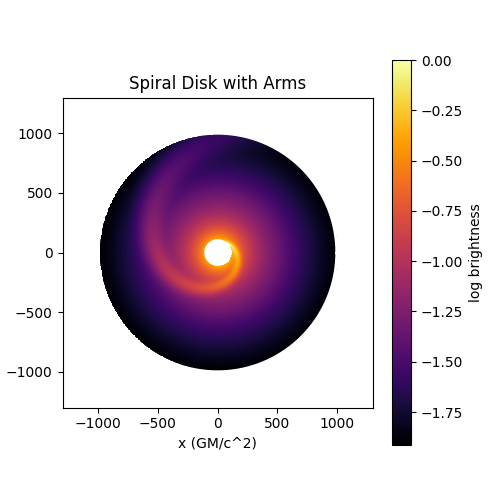
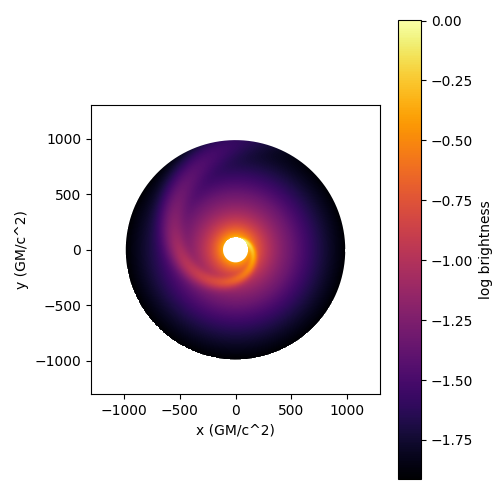
Updating 2D figure layout

diff --git a/plotting/spiral_image.py b/plotting/spiral_image.py
@@ -131,6 +131,6 @@ ax.plot(XOUT, YOUT, color='white', lw=2)
 # Add labels and title
 ax.set_xlabel('x (GM/c^2)')
 ax.set_ylabel('y (GM/c^2)')
-ax.set_title('Spiral Disk with Arms')
-
+#ax.set_title('Spiral Disk with Arms')
+fig.tight_layout()
 plt.savefig('spiralplot.png')
